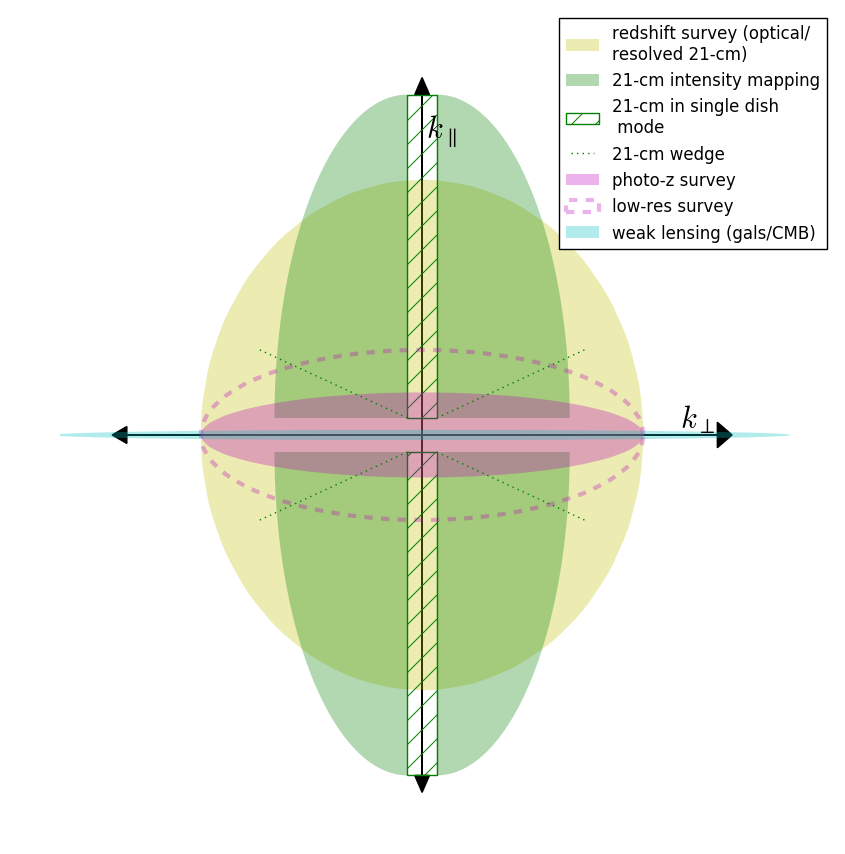
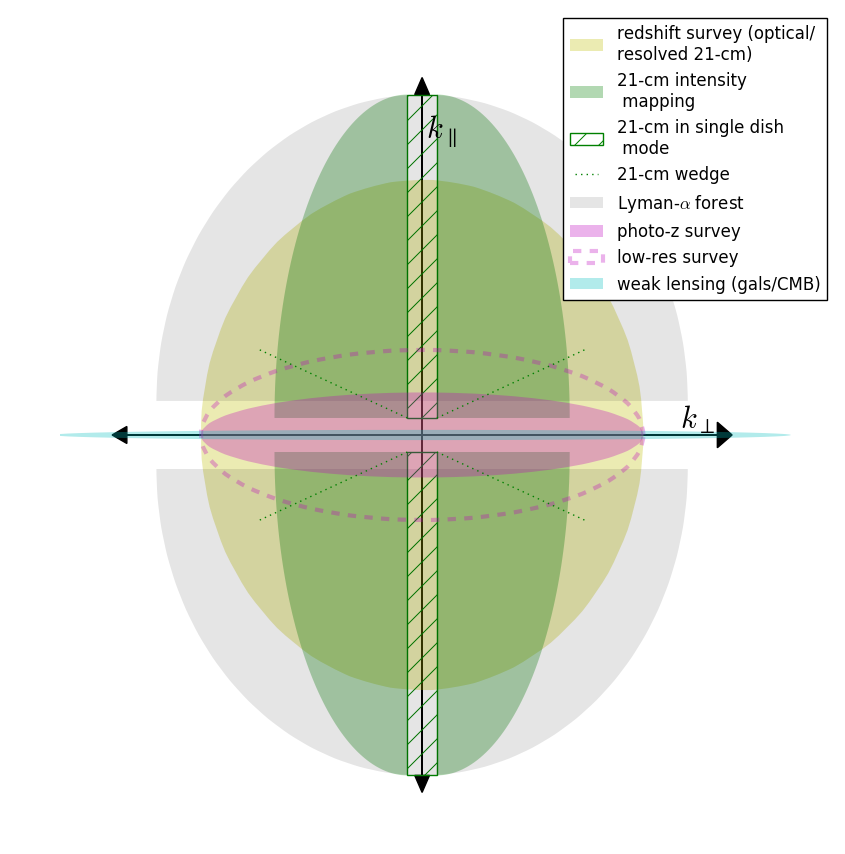
added lya forest

diff --git a/expmp.py b/expmp.py
@@ -64,7 +64,7 @@ def GenWedge(ofs,rx,ry, facecolor='r',label='',alpha=0.3):
             else:
                 #print dir(Path)
                 codes.append(Path.CURVE4)
-            verts.append([cofs[0]+rx*cos(p+np.pi/2*g),cofs[1]+ry*sin(p+np.pi/2*g)])
+            verts.append([cofs[0]+rx*cos(p+2*np.pi/ngoes*g),cofs[1]+ry*sin(p+2*np.pi/ngoes*g)])
         if (ngoes>1):
             codes.append(Path.CLOSEPOLY)
             verts.append(ofs)
@@ -83,7 +83,7 @@ def GenWedge(ofs,rx,ry, facecolor='r',label='',alpha=0.3):
 w=GenWedge([0,0],1.5,1.5,'y','redshift survey (optical/\nresolved 21-cm)')
 ax.add_artist(w)
 #21cm
-ax.add_artist(GenWedge([0.1,0.1],0.9,1.9,'g','21-cm intensity mapping'))
+ax.add_artist(GenWedge([0.1,0.1],0.9,1.9,'g','21-cm intensity \n mapping'))
 for sign in [+1,-1]:
     w=Rectangle([-0.1,0.1*sign],0.2,1.9*sign,label='21-cm in single dish\n mode')
     w.set_hatch('/')
@@ -96,6 +96,12 @@ plt.plot([0.1,1.1],[-0.1,-0.5],'g:')
 plt.plot([-0.1,-1.1],[-0.1,-0.5],'g:')
 plt.plot([-0.1,-1.1],[0.1,0.5],'g:')
 lhandles.append(h)
+
+#Lya forest
+wlya=GenWedge([0.0,0.2],1.8,1.8,'k','Lyman-$\\alpha$ forest',0.1)
+
+ax.add_artist(wlya)
+
 
 #PZ
 ax.add_artist(GenWedge([0,0],1.5,0.25,'m','photo-z survey'))
